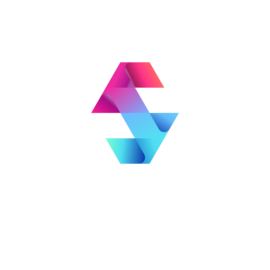
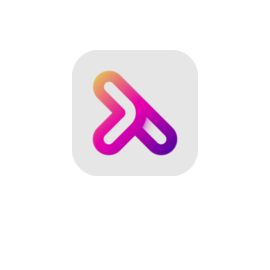
Rebranding

Changed region(s): [[0.2667, 0.1778, 0.7407, 0.6519]]

diff --git a/public/index.html b/public/index.html
@@ -5,17 +5,17 @@
     <meta name="viewport" content="width=device-width, initial-scale=1" />
     <meta
       name="description"
-      content="System32 | NFT Marketplace"
+      content="Lambda.Digital | NFT Marketplace"
     />
     <link rel="apple-touch-icon" sizes="180x180" href="%PUBLIC_URL%/apple-touch-icon.png">
     <link rel="icon" type="image/png" sizes="32x32" href="%PUBLIC_URL%/favicon-32x32.png">
     <link rel="icon" type="image/png" sizes="16x16" href="%PUBLIC_URL%/favicon-16x16.png">
     <link rel="manifest" href="%PUBLIC_URL%/site.webmanifest">
-    <link rel="mask-icon" href="%PUBLIC_URL%/safari-pinned-tab.svg" color="#5bbad5">
-    <meta name="msapplication-TileColor" content="#da532c">
-    <meta name="theme-color" content="#ffffff">
+    <link rel="mask-icon" href="%PUBLIC_URL%/safari-pinned-tab.svg" color="#9f00a7">
+    <meta name="msapplication-TileColor" content="#9f00a7">
+    <meta name="theme-color" content="#e6e6e6">
     <link href="https://fonts.googleapis.com/css2?family=Poppins&display=swap&wght@400..800" rel="stylesheet">
-    <title>System32 | NFT Marketplace</title>
+    <title>Lambda.Digital | NFT Marketplace</title>
   </head>
   <body>
     <noscript>You need to enable JavaScript to run this app.</noscript>

diff --git a/src/App.scss b/src/App.scss
@@ -47,12 +47,14 @@
     padding-right: map.get($spacing, "3");
 
     .subheader {
+      padding-right: 5vw;
       display: flex;
       justify-content: space-between;
       align-items: center;
 
       @media (max-width: $layout-breakpoint-medium) {
         flex-wrap: wrap;
+        padding-right: 0;
       }
     }
 
@@ -65,11 +67,11 @@
       h1 {
         font-weight: 600;
         font-size: 1.4em;
-        letter-spacing: 2px;
+        letter-spacing: 1px;
       }
 
       figure {
-        width: 40px;
+        width: 50px;
         height: 50px;
         background: url("../public/images/logo.png");
         background-size: cover;
@@ -90,11 +92,13 @@
   main {
     display: flex;
     flex-wrap: wrap;
-    padding-left: 20vw;
-    justify-content: flex-start;
+    padding-left: 10vw;
+    padding-right: 5vw;
+    justify-content: flex-end;
 
-    @media (max-width: $layout-breakpoint-medium) {
+    @media (max-width: $layout-breakpoint-large) {
       padding-left: 0;
+      padding-right: 0;
       justify-content: space-around;
     }
   }

diff --git a/src/components/Select/index.tsx b/src/components/Select/index.tsx
@@ -25,11 +25,13 @@ const rangeOptions: Options<Option> = [
 ];
 
 const defaultBackgroundColor =
-  'linear-gradient(152deg, rgba(211,94,220,0.8) -80%, rgba(29,34,35,0) 80%)';
+  'linear-gradient(152deg, rgba(211,94,220,1) -80%, rgba(29,34,35,0) 80%)';
 const hoverBackgroundColor =
   'linear-gradient(152deg, rgba(211,94,220,1) -80%, rgba(29,34,35,0) 80%)';
 const activeBackgroundColor =
   'linear-gradient(152deg, rgba(211,94,220,1) -80%, rgba(211,94,220,0.3) 80%)';
+const menuBackgroundColor =
+  'linear-gradient(152deg, rgba(211,94,220,1) -80%, rgba(29,34,35,0.9) 80%)';
 
 const selectorStyles: StylesConfig<Option, false, GroupBase<Option>> = {
   control: (props) => ({
@@ -75,7 +77,7 @@ const selectorStyles: StylesConfig<Option, false, GroupBase<Option>> = {
     color: 'inherit',
     borderRadius: '10px',
     overflow: 'hidden',
-    background: defaultBackgroundColor,
+    background: menuBackgroundColor,
   }),
   menuList: (props) => ({
     ...props,

diff --git a/src/App.tsx b/src/App.tsx
@@ -21,7 +21,7 @@ function App() {
         <header className="App-header">
           <div className="Logo">
             <figure />
-            <h1>System32</h1>
+            <h1>Digital</h1>
           </div>
 
           <div className="subheader">
@@ -36,7 +36,9 @@ function App() {
           {items.map((d) => (
             <Item key={d.id} item={d} />
           ))}
-          <Item item={undefined} />
+          {items.map((d) => (
+            <Item key={`hidden${d.id}`} item={undefined} />
+          ))}
         </main>
       </div>
     </div>

diff --git a/src/styles/_breakpoints.scss b/src/styles/_breakpoints.scss
@@ -1,2 +1,3 @@
-$layout-breakpoint-small: 350px;
+$layout-breakpoint-small: 400px;
 $layout-breakpoint-medium: 960px;
+$layout-breakpoint-large: 1250px;

diff --git a/src/components/Item/style.scss b/src/components/Item/style.scss
@@ -13,6 +13,7 @@
 
   &.hidden {
     visibility: hidden;
+    height: 10px;
   }
 
   .content {
